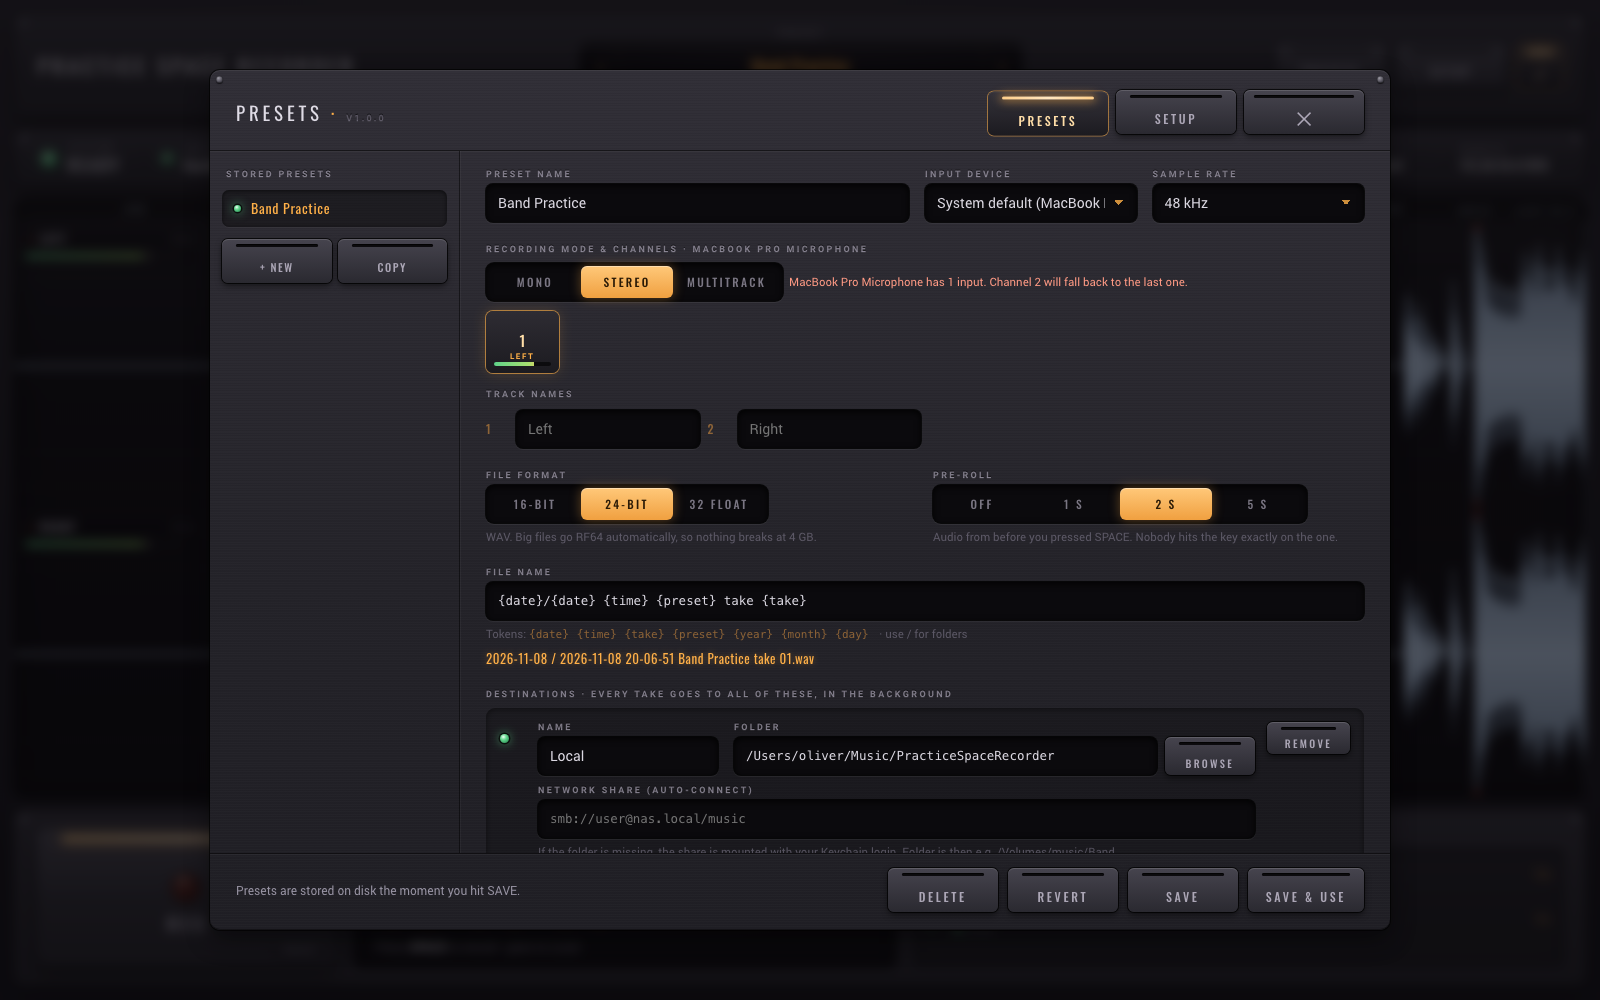
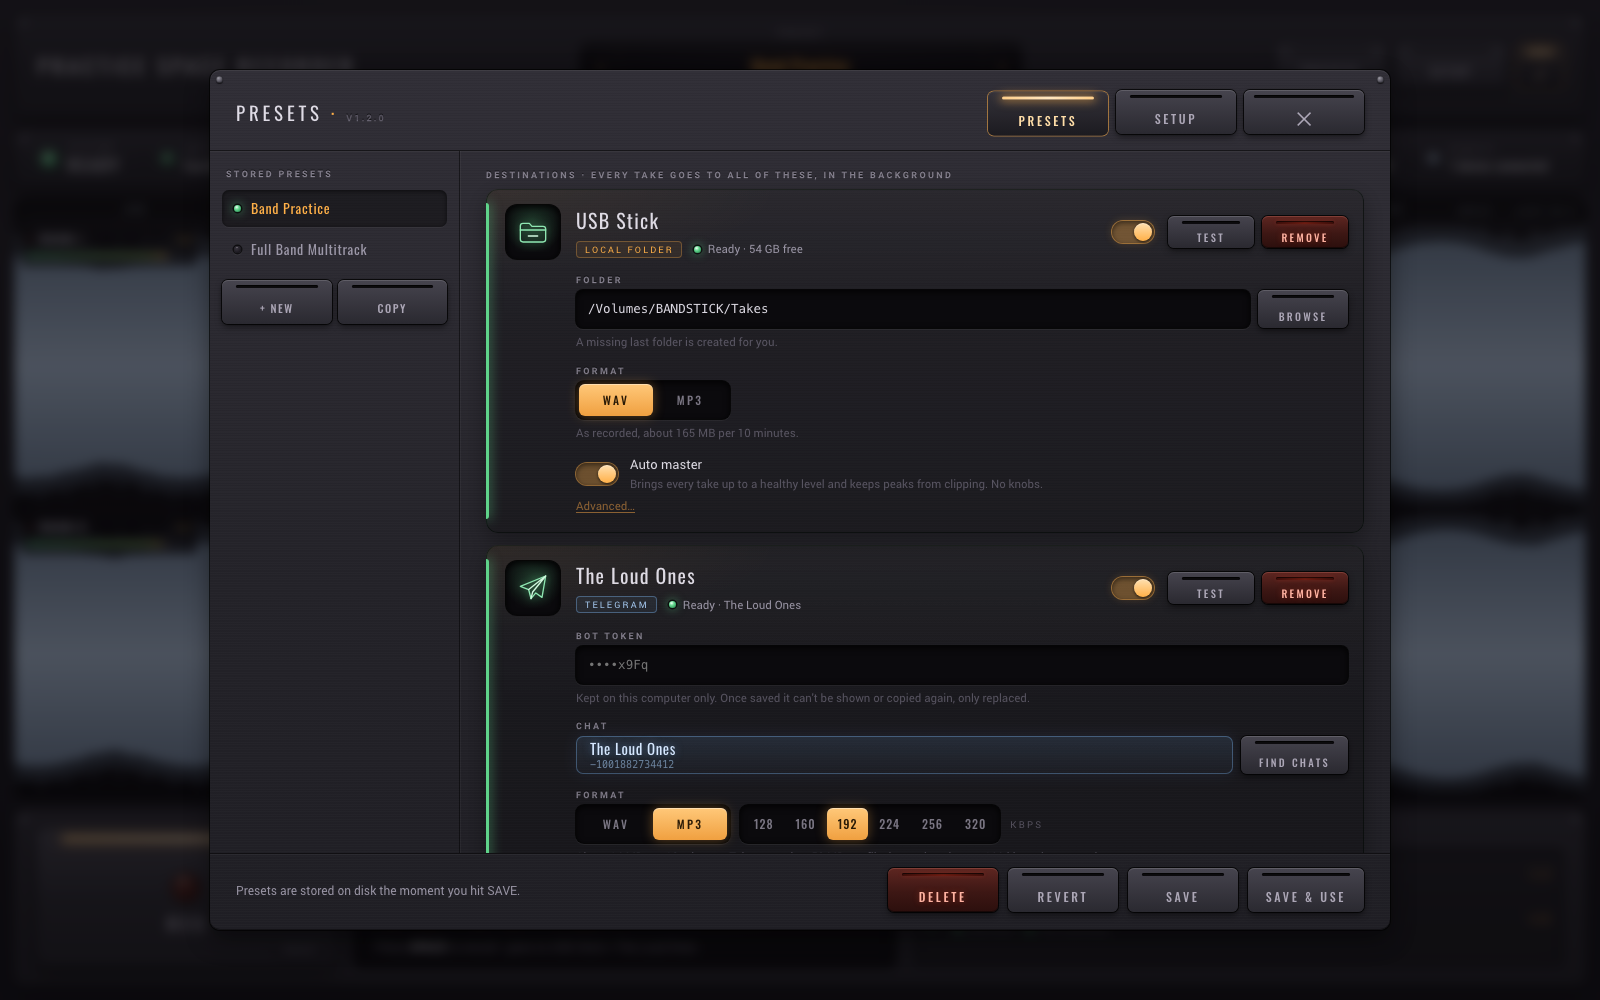
README: new hero shot, overview diagram, auto master docs, Ko-fi
- Hero screenshot of a real-length take across three destinations
- 'One take, everywhere at once' diagram, Telegram and auto master diagrams
- NAS diagram simplified to just saving to the NAS
- Ko-fi badge, support section and FUNDING.yml

Changed region(s): [[0.0, 0.155, 1.0, 0.868], [0.0, 0.527, 0.1562, 0.775], [0.5, 0.806, 0.625, 0.93]]

diff --git a/README.md b/README.md
@@ -11,6 +11,7 @@ Your take is already saved, and you're halfway into the next song.
 ![macOS](https://img.shields.io/badge/macOS-11%2B-2b2a31?style=flat-square&logo=apple)
 ![Linux](https://img.shields.io/badge/Linux-deb%20%7C%20rpm%20%7C%20AppImage-2b2a31?style=flat-square&logo=linux&logoColor=white)
 ![License](https://img.shields.io/badge/license-AGPL--3.0-2b2a31?style=flat-square)
+[![Buy me a coffee](https://img.shields.io/badge/Ko--fi-buy%20me%20a%20coffee-ffb048?style=flat-square&logo=kofi&logoColor=white)](https://ko-fi.com/olivercorrodi)
 
 <br/>
 
@@ -44,6 +45,10 @@ Built for the practice space of [Naked Soldier](http://www.nakedsoldier.ch/). Sh
 
 PracticeSpaceRecorder writes every take to one or more **destinations**: a folder on the computer, a USB stick, an external drive, a NAS, or straight into your band's Telegram chat. Use one, use all of them, the app doesn't judge.
 
+<img src="docs/flow.svg" alt="Your band plays into the recording computer, and every take goes to a USB stick as a mastered WAV, to a NAS as a raw WAV, and to the band chat as an auto mastered MP3, all at once" width="100%" />
+
+Every destination gets its own format: a loud WAV to listen to at home, the raw WAV for mixing later, a small MP3 for the phones.
+
 ### The USB stick (what most bands want)
 
 Plug a USB stick or an external SSD/HDD into the recording computer, make it a destination, and play. After practice, grab the stick and take it home. That's the whole workflow.
@@ -56,11 +61,15 @@ Forgot the stick at home? Keep recording anyway. Takes wait on the computer and 
 
 If your practice space has a NAS or any network share, takes can go straight there. Nobody has to remember a stick, and nobody "accidentally" takes it home for three weeks.
 
-<img src="docs/usecase-nas.svg" alt="Recording computer sends takes over the network to a NAS, an optional bot posts them to the band chat" width="100%" />
+<img src="docs/usecase-nas.svg" alt="Recording computer sends takes over the network to a NAS" width="100%" />
 
 ### The band chat (for bands that live on their phones)
 
-Add a **Telegram** destination and a bot posts every take into your group chat, ready to play, before the van is loaded. Pair it with a USB stick or the NAS: the chat gets a handy MP3, the drive keeps the full quality WAV. See [Sending takes to Telegram](#sending-takes-to-telegram).
+Add a **Telegram** destination and a bot posts every take into your group chat, ready to play, before the van is loaded.
+
+<img src="docs/usecase-telegram.svg" alt="Recording computer sends takes over the internet to your Telegram bot, which posts them to the band chat on everyone's phone" width="100%" />
+
+Pair it with a USB stick or the NAS: the chat gets a handy MP3, the drive keeps the full quality WAV. See [Sending takes to Telegram](#sending-takes-to-telegram).
 
 <br/>
 
@@ -75,6 +84,7 @@ Add a **Telegram** destination and a bot posts every take into your group chat, 
 | **Saves in the background** | When you stop, the take is written to every destination (local disk, USB stick, external drive, NAS, all of them at once) while you're already recording the next one. |
 | **Lose nothing, ever** | Audio goes to a local buffer first. USB stick unplugged? NAS asleep? The take waits and delivers itself when the destination is back, even after a restart. Power cut mid-take? The audio up to that point is recovered on next launch. |
 | **Straight to the band chat** | A Telegram bot posts every take into your group, as MP3 so it doesn't eat everyone's data plan. |
+| **Loud enough, automatically** | Practice recordings are usually way too quiet. The auto master brings every take up to a healthy level and keeps the peaks from clipping. No knobs, no presets, switch it off per destination if you want the raw file. |
 | **WAV or MP3, per destination** | Full quality WAV on the drive, small MP3s for the chat, or whatever mix you like. More than two tracks become a stereo mix for MP3. |
 | **Auto-connects your NAS** | Give it an `smb://` address and it mounts the share by itself (using your Keychain login on the Mac). |
 | **Remote control** | Any phone, tablet or laptop on your Wi-Fi can be the record button. Scan a QR code and you're done. No app needed. |
@@ -197,6 +207,23 @@ And if the NAS is off, asleep, or someone tripped over the network cable: **keep
 
 <br/>
 
+## Auto master
+
+Interfaces in practice rooms are set with lots of headroom (good, nothing clips), which makes the recordings quiet (bad, you can't hear them on a phone). So before a take is written, PracticeSpaceRecorder listens to all of it once and then:
+
+<img src="docs/automaster.svg" alt="A quiet take at -36 LUFS becomes a loud one at -14 LUFS, peaks stay under -1 dBTP" width="100%" />
+
+
+* turns it up to about the loudness of a streaming service (-14 LUFS),
+* catches the peaks with a look-ahead limiter so nothing clips, not even after MP3 encoding (-1 dBTP),
+* takes out sub-bass rumble nobody hears but every speaker has to move for.
+
+It never squashes: the limiter shaves a few dB off the loudest hits at most, quiet takes get a bit less loud instead. Silence stays silence, and takes that are loud already are left as they are. It's not a mastering engineer, but your phone speaker won't know the difference.
+
+Files meant for mixing (one file per track, or multichannel WAVs) are always left untouched. Want the raw take everywhere? Switch **Auto master** off on the destination.
+
+<br/>
+
 ## Sending takes to Telegram
 
 1. In Telegram, message **@BotFather**, send `/newbot`, pick a name. It gives you a **token** (looks like `123456789:AAH4x...`).
@@ -284,8 +311,8 @@ If your computer sees it as an input, yes. Focusrite, MOTU, RME, Behringer, the 
 **What happens if the computer crashes in the middle of a take?**<br/>
 The audio is streamed to disk the whole time. On the next start, the take is recovered and delivered like any other one. You lose maybe a fraction of a second.
 
-**Why WAV and not MP3?**<br/>
-Because you might want to mix that one magic take later. Make MP3s from it when you share it with the band chat.
+**WAV or MP3?**<br/>
+Both, if you like. Keep WAV on the drive, because you might want to mix that one magic take later, and send MP3s to the band chat so nobody's data plan cries. You pick per destination.
 
 **Do I need a NAS?**<br/>
 Nope. Most bands don't have one, and that's fine. A local folder is the default destination, and a USB stick is all you need to take the takes home.
@@ -313,6 +340,14 @@ npm run bundle    # build installers into src-tauri/target/release/bundle
 How it fits together: a Rust core (audio capture with [cpal](https://github.com/RustAudio/cpal), a lock-free ring buffer, the delivery queue, share mounting) serves the UI over a local web server. The app window is a native [Tauri](https://tauri.app) window showing that UI, and tablets load the very same page over Wi-Fi. One UI, two doors.
 
 Releases are built by GitHub Actions: push a tag like `v1.0.1` and installers for every platform show up in a draft release.
+
+<br/>
+
+## Buy me a coffee
+
+PracticeSpaceRecorder is free and stays free. If it saved a riff your band would otherwise have forgotten, you can [buy me a coffee on Ko-fi](https://ko-fi.com/olivercorrodi). It goes straight into more coffee, new strings and the occasional replacement for whatever the drummer broke.
+
+<a href="https://ko-fi.com/olivercorrodi"><img src="https://img.shields.io/badge/Ko--fi-support%20this%20project-ffb048?style=for-the-badge&logo=kofi&logoColor=white" alt="Support this project on Ko-fi" /></a>
 
 <br/>
 
